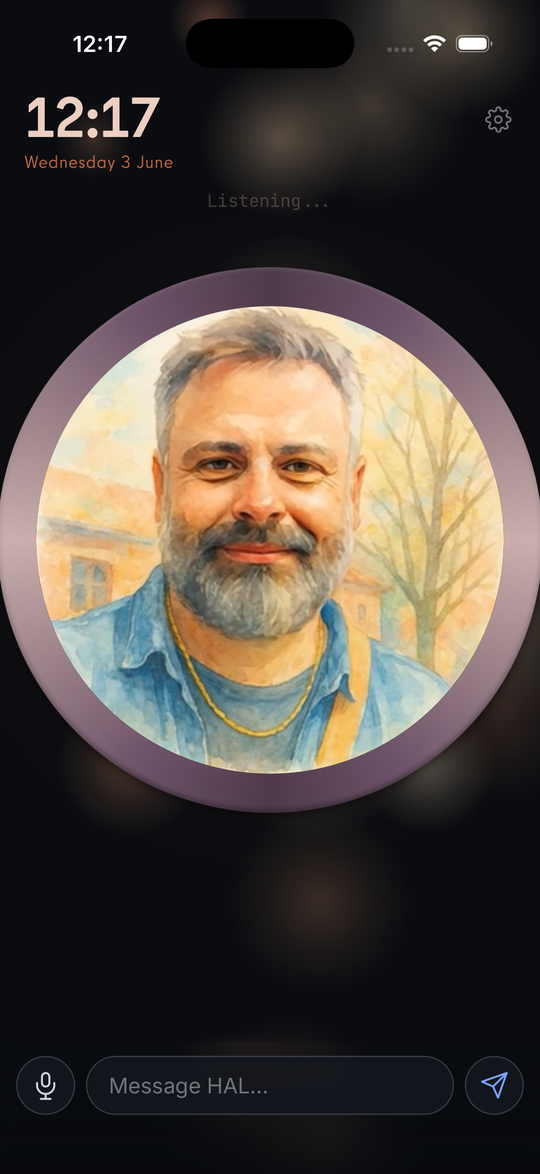
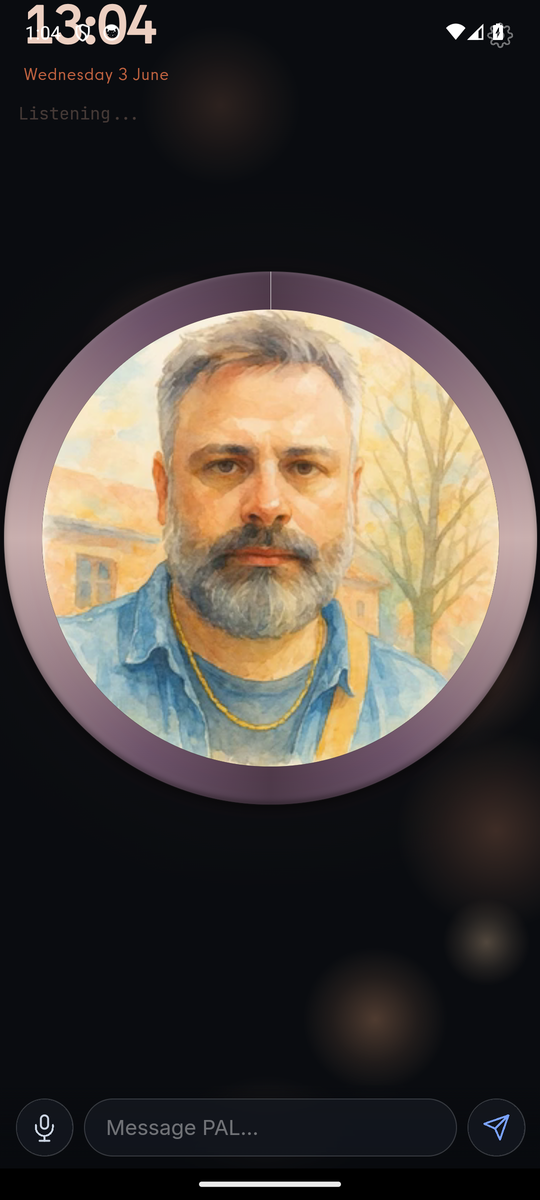
mobile: rename companion app HAL -> PAL (display name + docs)
Rename the user-facing app from HAL to PAL to match the product branding: app
display name (capacitor.config appName, Android app_name/title, iOS
CFBundleDisplayName), package.json name/description, the in-app 'Message PAL…'
input placeholder, and the mobile README (title + assistant prose; kept the
HAL_CONFIG code token). Bundle id sh.martinez.hal.companion is unchanged so it
installs over the existing app. Screenshots refreshed to show the PAL name.

diff --git a/mobile/src/overlay/overlay.ts b/mobile/src/overlay/overlay.ts
@@ -20,7 +20,7 @@ export function mountOverlay(cfg: HalConfig): void {
   const input = document.createElement("input");
   input.className = "hal-input";
   input.type = "text";
-  input.placeholder = "Message HAL…";
+  input.placeholder = "Message PAL…";
   input.autocomplete = "off";
   input.autocapitalize = "sentences";
   input.enterKeyHint = "send";
@@ -75,14 +75,14 @@ export function mountOverlay(cfg: HalConfig): void {
       await startListening((partial) => { input.value = partial; });
     } catch (e) {
       mic.classList.remove("active");
-      input.placeholder = "Message HAL…";
+      input.placeholder = "Message PAL…";
       console.warn("[hal] mic start failed", e);
     }
   }
   async function endPtt() {
     if (!isListening()) return;
     mic.classList.remove("active");
-    input.placeholder = "Message HAL…";
+    input.placeholder = "Message PAL…";
     const final = await stopListening();
     if (final) { input.value = final; void submit(); }
   }

diff --git a/mobile/capacitor.config.ts b/mobile/capacitor.config.ts
@@ -2,7 +2,7 @@ import type { CapacitorConfig } from "@capacitor/cli";
 
 const config: CapacitorConfig = {
   appId: "sh.martinez.hal.companion",
-  appName: "HAL",
+  appName: "PAL",
   webDir: "www",
   // The display connects to the AI server over ws:// / http:// on the LAN, so
   // Android must allow cleartext. iOS needs an ATS exception in Info.plist

diff --git a/mobile/README.md b/mobile/README.md
@@ -1,18 +1,18 @@
-# HAL companion app (iOS + Android)
+# PAL companion app (iOS + Android)
 
-A Capacitor app that pairs a phone as a **satellite** of HAL — not a mirror of
-the kiosk. You talk to HAL by **text** or **voice**; your turn runs in the shared
-household conversation, but its output (transcript, orb, reply, and HAL's
+A Capacitor app that pairs a phone as a **satellite** of PAL — not a mirror of
+the kiosk. You talk to PAL by **text** or **voice**; your turn runs in the shared
+household conversation, but its output (transcript, orb, reply, and PAL's
 **server-voice TTS**) routes **only to your phone**, never the kiosk. The app
 reuses the kiosk web UI (`rpi/web`) verbatim inside a native WebView and points it
 at the AI server directly.
 
 <p align="center">
-  <img src="../docs/mobile/companion-idle.png" width="250" alt="Companion app idle — orb, clock, and the 'Message HAL…' input bar">
+  <img src="../docs/mobile/companion-idle.png" width="250" alt="PAL companion idle — orb, clock, and the message input bar">
   &nbsp;&nbsp;
-  <img src="../docs/mobile/companion-chat.png" width="250" alt="Companion app conversation — a typed question with HAL's spoken reply on the orb">
+  <img src="../docs/mobile/companion-chat.png" width="250" alt="PAL companion conversation — a typed question with PAL's spoken reply on the orb">
 </p>
-<p align="center"><sub>Idle home screen · a text turn (the transcript + HAL's reply route only to this phone, spoken in HAL's server voice)</sub></p>
+<p align="center"><sub>Idle home screen · a text turn (the transcript + PAL's reply route only to this phone, spoken in PAL's server voice)</sub></p>
 
 ## How it works
 - **Display**: `scripts/sync-web.mjs` copies `rpi/web` → `www/` at build time
@@ -25,7 +25,7 @@ at the AI server directly.
   (Capacitor speech-recognition → text) to `POST /api/command` with the device
   token. The server runs the turn in the shared conversation and routes the
   transcript echo + response **back to this phone only**.
-- **Server voice**: HAL's Wyoming TTS for the turn is cached server-side and
+- **Server voice**: PAL's Wyoming TTS for the turn is cached server-side and
   fetched by the phone (`GET /api/satellite/tts`), played via the Web Audio API
   (`src/overlay/satellite-audio.ts` — unlocked on the send/mic tap to satisfy
   WebView autoplay policy); the orb's speaking animation is driven by that
@@ -38,12 +38,12 @@ at the AI server directly.
 - **Idle photo frame**: after N minutes idle the phone asks the server to start
   its own ambient photo-frame (`src/overlay/photo-frame-idle.ts`); any input —
   or an incoming broadcast — dismisses it.
-- **Pairing**: first run asks for the server URL + a 6-digit code. Ask HAL to
+- **Pairing**: first run asks for the server URL + a 6-digit code. Ask PAL to
   pair (server `POST /api/pair/request`) → the code shows on the display →
   redeem it (`/api/pair/redeem`) for a device token, stored on-device. The token
   gates `/api/command` + `/ws/ui` and identifies the satellite for routing.
 - **Demo**: `src/config/demo-config.ts` ships a default URL + code pointing at a
-  hosted HTTPS/WSS HAL demo instance for App Store review (you deploy that
+  hosted HTTPS/WSS PAL demo instance for App Store review (you deploy that
   instance and pre-seed the demo token).
 
 ## Build
@@ -65,7 +65,7 @@ avdmanager create avd -n hal -k "system-images;android-34;google_apis;x86_64" -d
 emulator -avd hal &
 npx cap run android       # builds + installs to the running emulator/device
 ```
-First run: enter your server URL (`http://<ai-server-ip>:8765`), then ask HAL to
+First run: enter your server URL (`http://<ai-server-ip>:8765`), then ask PAL to
 pair and enter the 6-digit code shown on the kiosk.
 
 ### iOS